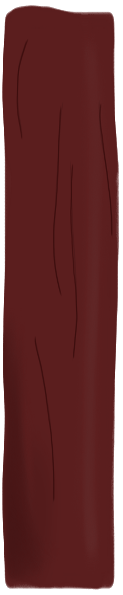
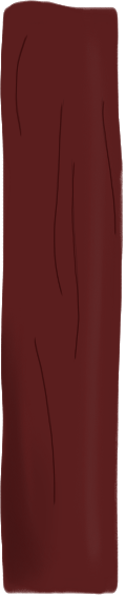
new switch assets, rescaled stump

diff --git a/core/src/com/quokkabounce/game/states/PlayState.java b/core/src/com/quokkabounce/game/states/PlayState.java
@@ -2686,7 +2686,7 @@ class PlayState extends State implements InputProcessor{ //This is the largest p
                     case 2:
                         levelBackground = new Texture("dino2Back.png");
                         walls.add(new Wall(450, 380, "stump.png"));
-                        switches.add(new Obstacle(660, 120, "wallSwitch.png"));
+                        switches.add(new Obstacle(660, 120, "stumpSwitch.png"));
                         bonusQuokkas.add(new BonusQuokka(750, -30));
                         walls.add(new Wall(450, -445, switches, -215, "stump.png"));
                         meteors.add(new Meteor(690, 780, 0, 0));
@@ -2735,7 +2735,7 @@ class PlayState extends State implements InputProcessor{ //This is the largest p
                         break;
                     case 6:
                         levelBackground = new Texture("dino2Back.png");
-                        switches.add(new Obstacle(400, 50,"wallSwitch.png"));
+                        switches.add(new Obstacle(400, 50,"stumpSwitch.png"));
                         bonusQuokkas.add(new BonusQuokka(525, 120));
                         walls.add(new Wall(200, 350, "horizontStump.png"));
                         walls.add(new Wall(672, 472, switches, 1000, "stump.png"));
@@ -2816,7 +2816,7 @@ class PlayState extends State implements InputProcessor{ //This is the largest p
                         walls.add(new Wall(675, 450, "horizontWall.png"));
                         walls.add(new Wall(93, 1000, "horizontWall.png"));
                         walls.add(new Wall(565, 1123));
-                        switches.add(new Obstacle(798, 1868, "wallSwitch.png"));
+                        switches.add(new Obstacle(798, 1868, "stumpSwitch.png"));
                         walls.add(new Wall(93, 1718, switches, -718, 0,"horizontWall.png"));
                         walls.add(new Wall(675, 2200, "horizontWall.png"));
                         walls.add(new Wall(552, 2200, switches, -400, 1));
@@ -2914,7 +2914,7 @@ class PlayState extends State implements InputProcessor{ //This is the largest p
                         happyCloud = new HappyCloud(120, 1845);
                         break;
                     case 11:
-                        switches.add(new Obstacle(250, 1200, "wallSwitch.png"));
+                        switches.add(new Obstacle(250, 1200, "stumpSwitch.png"));
                         //walls.add(new Wall(-200, 1150, "horizontWall.png"));
                         hawks.add(new Hawk(125, 150, 5000, 300, 650, 2, 200, 400, 17, 550, 1, 0));
                         walls.add(new Wall(-200, 1700, "horizontWall.png"));
@@ -3183,7 +3183,7 @@ class PlayState extends State implements InputProcessor{ //This is the largest p
                         walls.add(new Wall(831, 437, "horizontFutureWall.png"));
                         bonusQuokkas.add(new BonusQuokka(500, 150));
                         portals.add(new Obstacle(600, 550, "portal.png"));
-                        switches.add(new Obstacle(4000, 100, "wallSwitch.png"));
+                        switches.add(new Obstacle(4000, 100, "futureSwitch.png"));
                         walls.add(new Wall(770,560, switches, 900, "futureWall.png"));
                         walls.add(new Wall(770, -158, "futureWall.png"));
                         portals.add(new Obstacle(5000, 550, "portal.png"));
@@ -3238,12 +3238,12 @@ class PlayState extends State implements InputProcessor{ //This is the largest p
                         walls.add(new Wall(3871, -220, "futureWall.png"));
                         walls.add(new Wall(3871,375, "futureWall.png"));
                         portals.add(new Obstacle(4000, 350, "portal.png"));
-                        switches.add(new Obstacle(4480, 275, "wallSwitch.png"));
+                        switches.add(new Obstacle(4480, 275, "futureSwitch.png"));
                         walls.add(new Wall(4300, 610, switches.get(0), 225, "futureWall.png"));
                         walls.add(new Wall(4300, -370, "futureWall.png"));
                         hawks.add(new Hawk(5300, 500, 5000, 200, 475, 3, 200, 750, 15, 415, -1,0, 450, 20));
                         walls.add(new Wall(6050, -125, "futureWall.png"));
-                        switches.add(new Obstacle(7380, 275, "wallSwitch.png"));
+                        switches.add(new Obstacle(7380, 275, "futureSwitch.png"));
                         walls.add(new Wall(7200, 610, switches.get(1), 225, "futureWall.png"));
                         walls.add(new Wall(7200, -370, "futureWall.png"));
                         walls.add(new Wall(8950, -125, "futureWall.png"));
